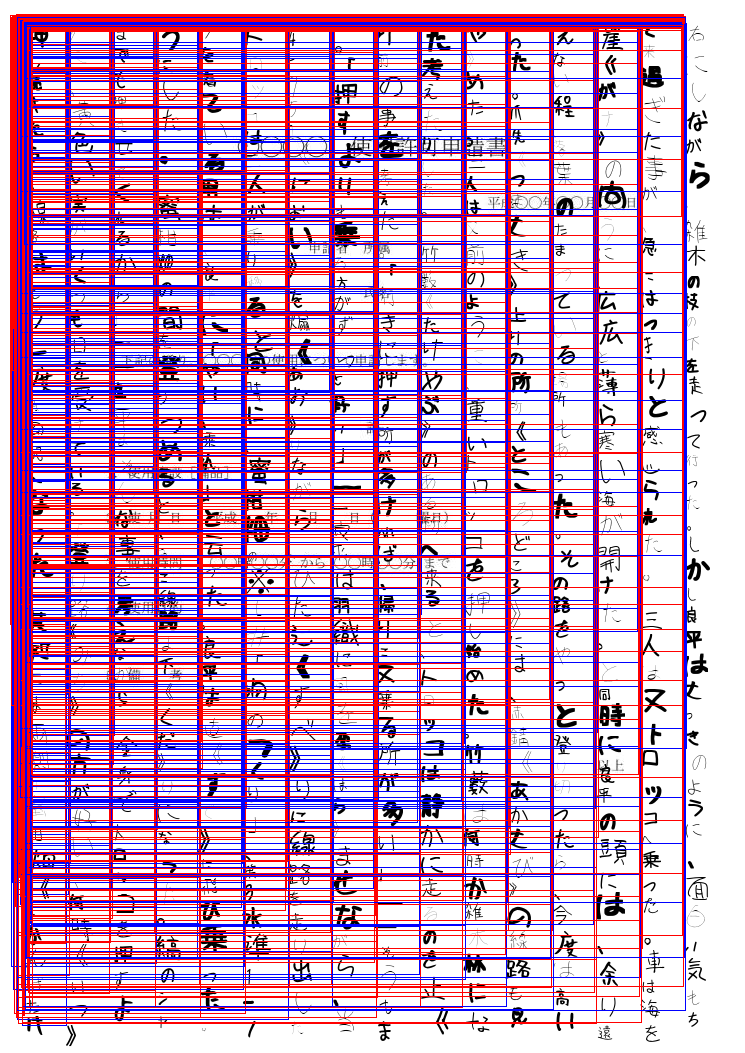
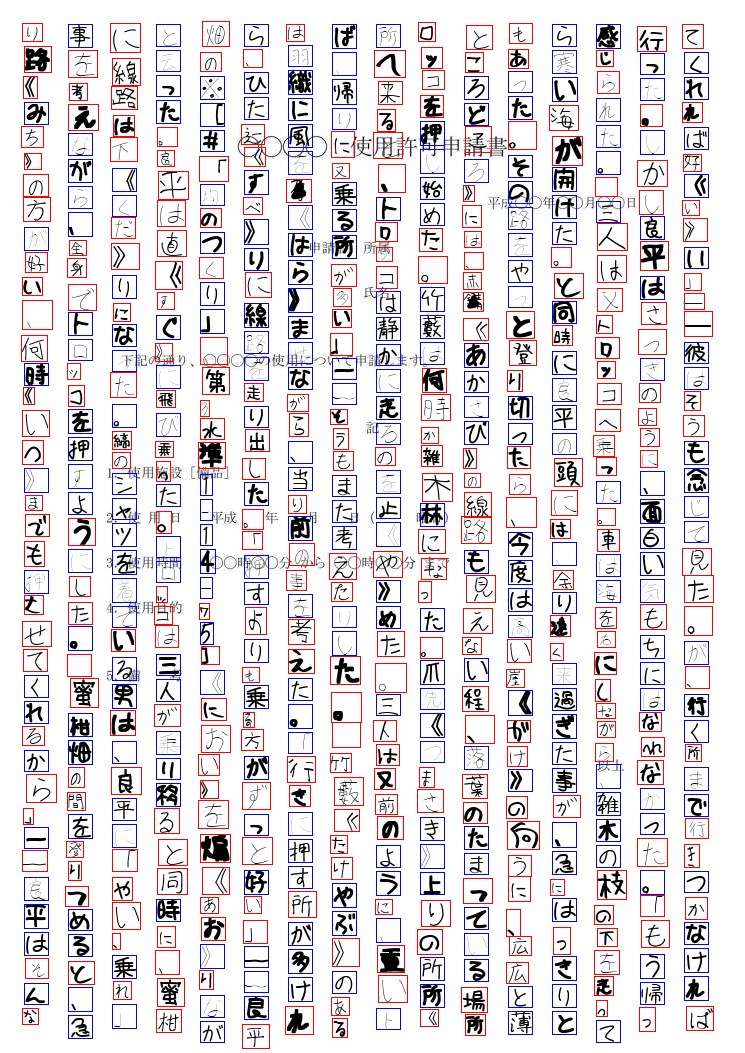
add test

diff --git a/tests/test_dataset.py b/tests/test_dataset.py
@@ -24,9 +24,9 @@ def test_image() -> None:
     draw = ImageDraw.Draw(img)
     w, h = img.size
     for box, label in zip(boxes, labels):
-        x0, y0, box_w, box_h = box
-        assert x0 + box_w <= w
-        assert y0 + box_h <= h
+        x0, y0, x1, y1 = box
+        assert x1 < w
+        assert y1 < h
         if label == 0:
             draw.rectangle(box, outline="red")
         else:

diff --git a/random_char_image/__init__.py b/random_char_image/__init__.py
@@ -108,7 +108,7 @@ class RandomImage:
             char_x: int = x + w * n_x
             char_y: int = y + h * n_y
             draw.text((char_x, char_y), c, font=font, fill="black")
-            boxes.append((char_x, char_y, w, h))
+            boxes.append((char_x, char_y, char_x + w, char_y + h))
             labels.append(label)
 
             if self.direction == "row":
